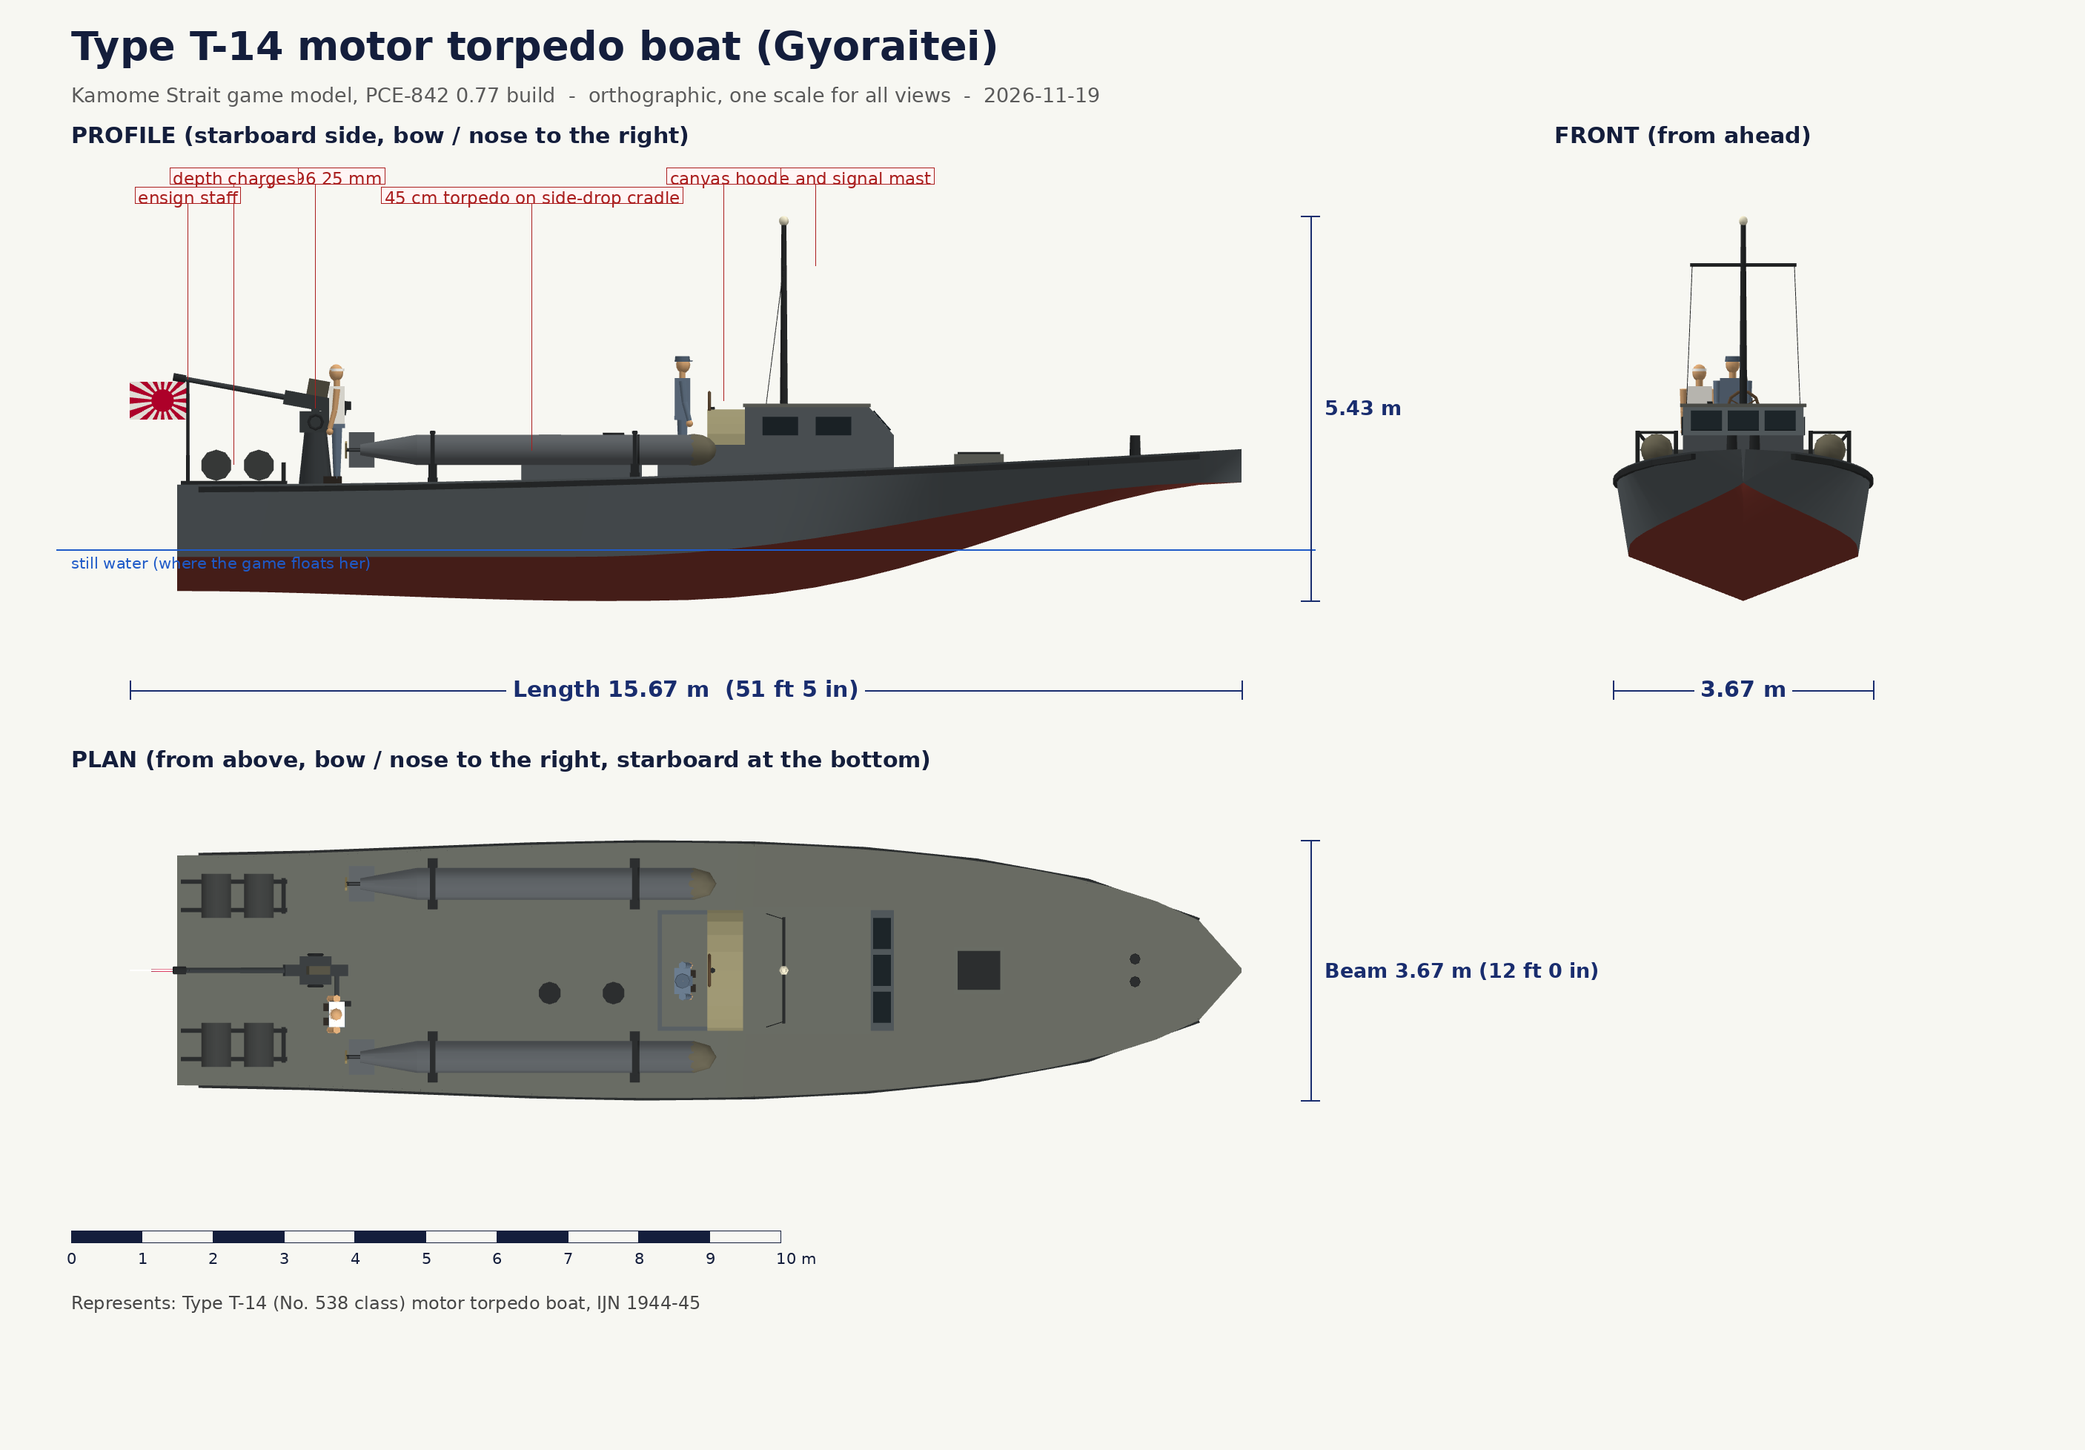
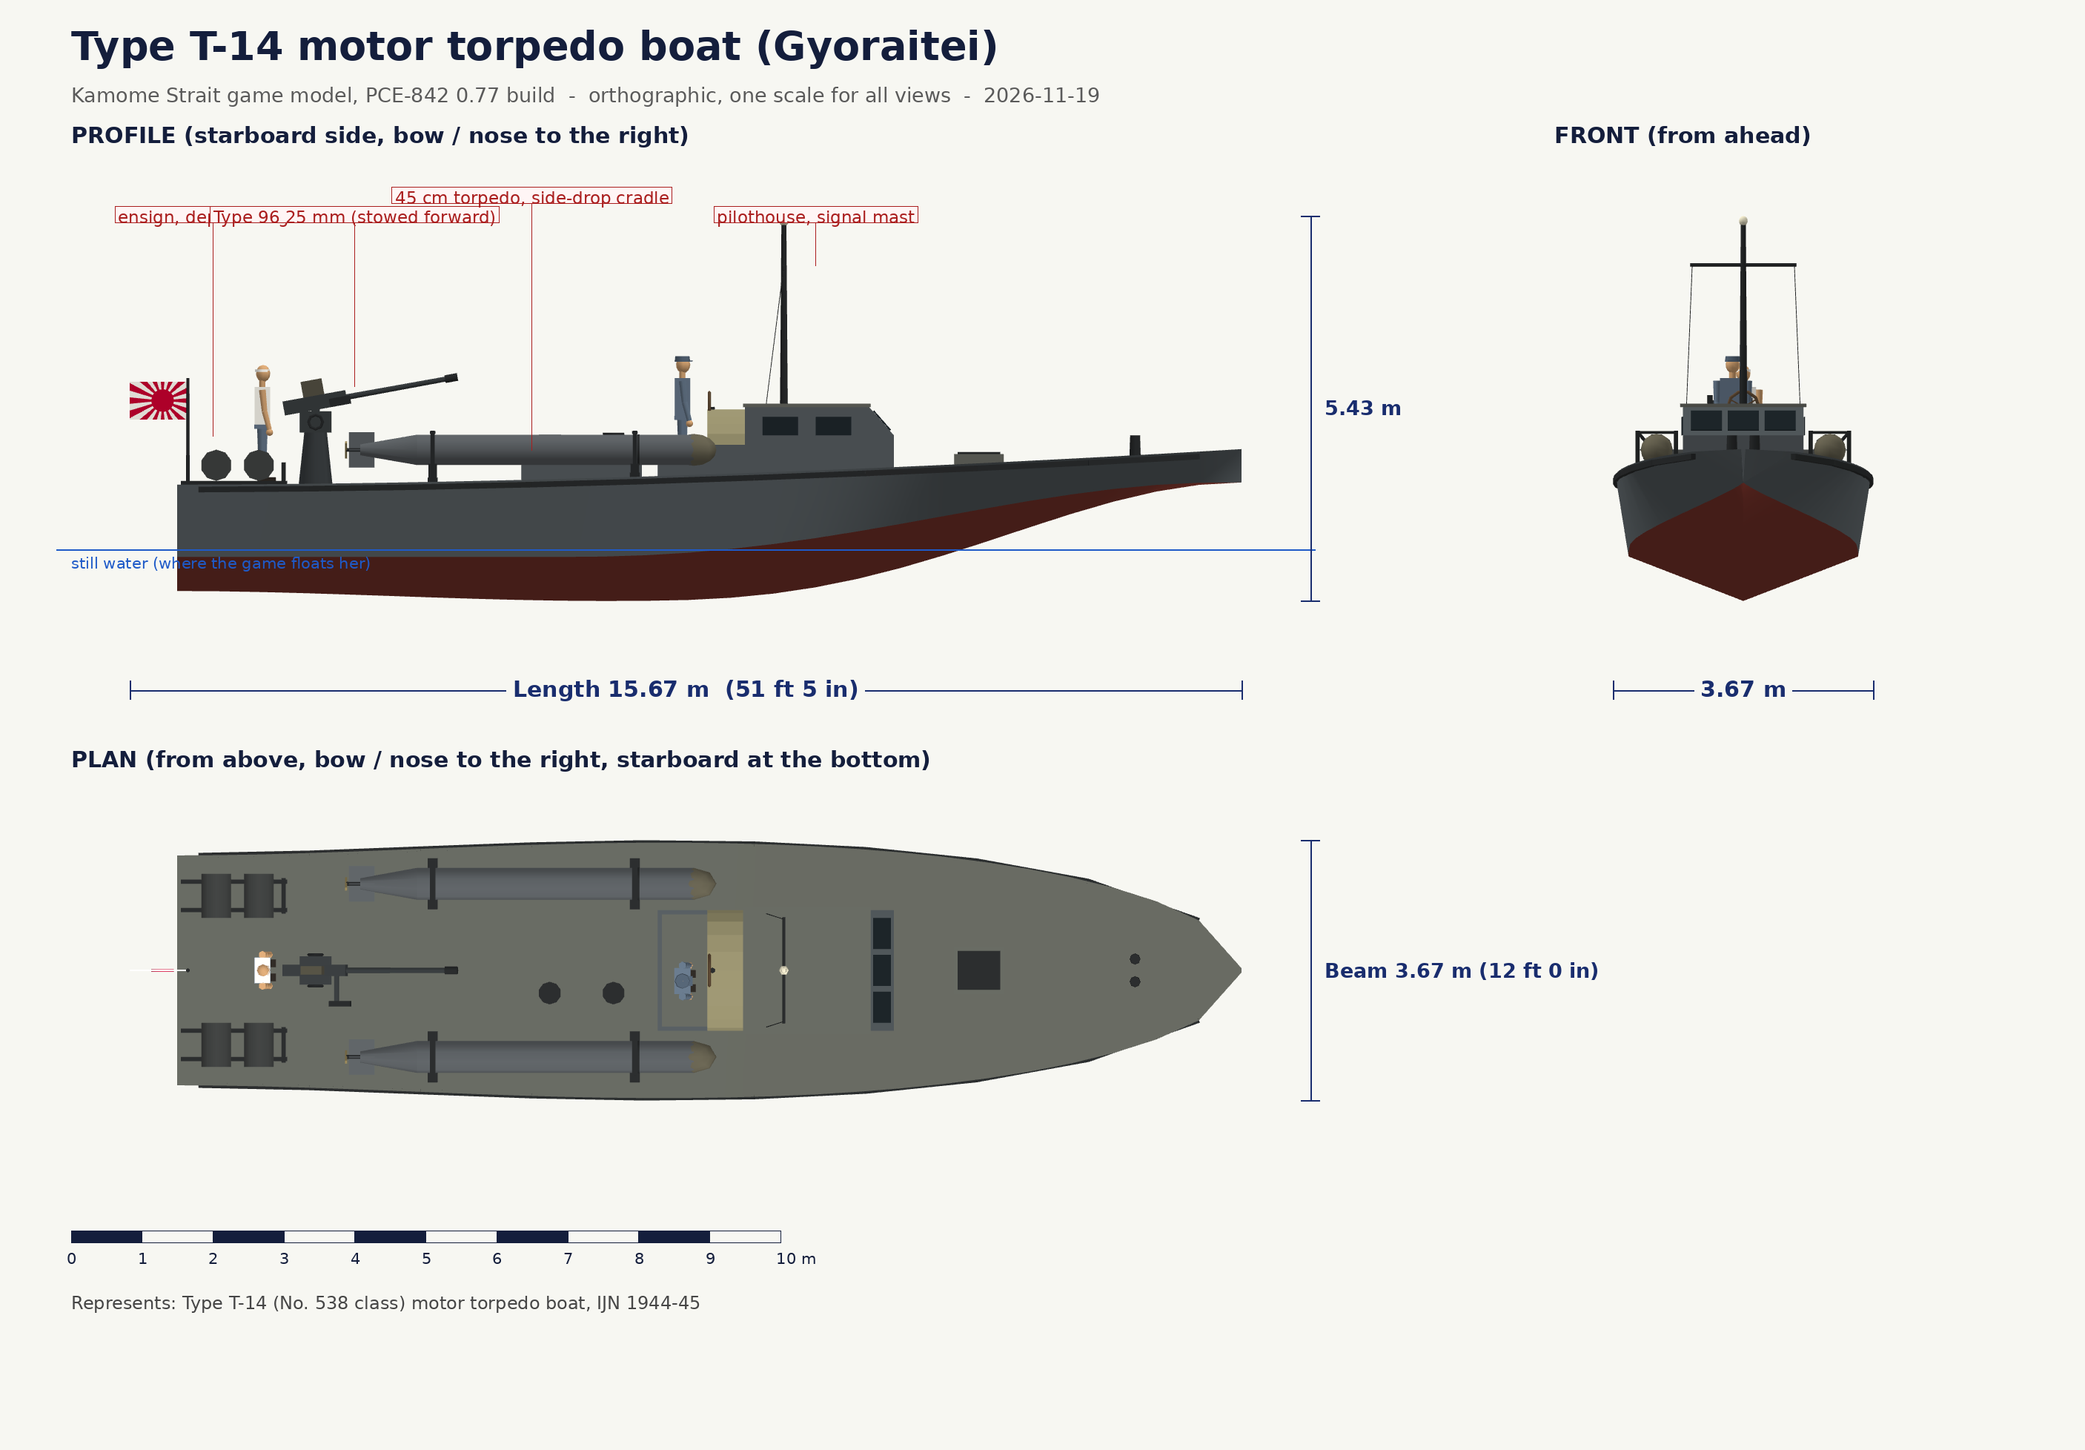
PCE-842 blueprint in the standard form (PCE-842_blueprint.png / _measurements.md); old profile/plan sheets removed; plans check moved to docs/PCE-842_plans_check.md
Claude-Session: https://claude.ai/code/session_01GqtnZ4hJG1DYCEV5dDsXBs

diff --git a/tools/blueprint_index.py b/tools/blueprint_index.py
@@ -21,8 +21,7 @@ L = ['# Blueprints of the Kamome Strait models', '',
      'Orthographic drawings of every real-world model in the game (profile, plan and front at one scale) and a measurement check against',
      'the references. Drawn by `tools/blueprint.py` from the built game; the catalogue of models, with the reference figures and their',
      'sources, is `tools/blueprints.json`. Redraw after a model changes: `python3 tools/blueprint.py <id>`, then `python3 tools/blueprint_index.py`.', '',
-     'The PCE-842 has her own, more detailed drawings and frame-by-frame check against the PCE-874 plans: `PCE-842_blueprint_profile.png`,',
-     '`PCE-842_blueprint_plan.png`, `PCE-842_measurements.md`.', '',
+     'The PCE-842\'s frame-by-frame check against the PCE-874 plans is in `docs/PCE-842_plans_check.md`.', '',
      '| Model | Represents | Length x width x height (m) | Check | Files |', '|---|---|---|---|---|']
 for e, dims, worst in rows:
     d = ' x '.join(dims) if dims else '-'

diff --git a/Blueprints/PCE-842_measurements.md b/Blueprints/PCE-842_measurements.md
@@ -1,56 +1,22 @@
-# PCE-842 game model checked against the PCE-874/875 Booklet of General Plans
+# USS PCE-842, patrol craft escort (the player's ship): game model measured against the references
 
-Version 0.37, 16 Nov 2026. The plans are BuShips PCE 874-S0103-426816, plates 3 to 8, for PCE-874/875. They are sister ships of PCE-842 and were drawn at 1/8 in = 1 ft.
+Measured from the PCE-842 0.77 build by `tools/blueprint.py` (2026-11-19). Model box: 56.64 m long, 12.12 m wide, 23.65 m high (solid parts only, as drawn on the blueprint).
 
-**How it was measured.** Each plate was scanned at 100 dpi and its own frame marks were used as the scale: 24 in frame spacing, with frame 0 at the stem on the waterline.
-- **Plate 4 (outboard profile):** 38.3 px a frame along the ship, and 66.5 px a metre in height (the 8 ft 4 in waterline to the baseline).
-- **Plate 5 (upper deck and navigating bridge):** 39 px a frame along the ship. Athwartships it is scaled to the 33 ft 1 in beam. The scans are stretched slightly across the ship, so each axis has its own scale.
-- **Accuracy:** about ±0.3 frame (±0.2 m) where a feature is drawn clearly.
-- **Coordinates:** frame f lies x = 27.75 - 0.6096 f metres from amidships. Starboard is +z.
+**Represents:** PCE-842 class patrol craft escort, USN 1943-45
 
-## Hull
+**Where she floats in the game:** the still water is 20.87 m below her highest point and 2.77 m above her keel (her draught in the game).
 
-| Item | Plans / published | Model before | Model now | Result |
-|---|---|---|---|---|
-| Length overall | 184 ft 6 in (56.24 m) published; plate 4 shows the stem head at frame -0.9 and the raked transom reaching frame ~91.2 at the deck | 55.67 m (square transom at frame 90.2) | **56.25 m** (stem -1.1, raked transom 90.0 to 91.16) | fixed |
-| Length on the 8 ft 4 in waterline | 179 ft 4.5 in (54.67 m), plate 4 | 53.83 m (counter rising from frame 86) | **54.86 m** (counter knuckle at frame 90) | fixed |
-| Beam (max, deck edge) | 33 ft 1 in (10.08 m) | 10.08 m | 10.08 m | match |
-| Beam on the waterline | about 32 ft (plate 7) | 9.84 m | 9.84 m | match |
-| Draft (design waterline above baseline) | 8 ft 4 in (2.54 m) | 2.54 m | 2.54 m | match |
-| Forecastle deck at the stem | about 5.6 m above DWL (plate 4) | 5.77 m | 5.77 m | match (0.1 m) |
-| Break of the forecastle | frame 62.7 (plate 4) | 62.8 | 62.8 | match |
+| Item | Reference | Source | Model | Difference | Result |
+|---|---|---|---|---|---|
+| Length | 56.24 m (184 ft 6 in) | 184 ft 6 in overall (published; PCE-874/875 plans, plate 4) | 56.64 m | +0.40 m (1%) | match |
+| Beam of the hull | 10.08 | 33 ft 1 in at the deck edge (the drawn width also takes in the life rafts and gun tubs, 12.1 m) | - | | |
+| Draught to the baseline | 2.54 | 8 ft 4 in design waterline above the baseline (plate 4); the model's 2.79 m below the still water is to the bottom of her propellers, which reach below the keel | - | | |
 
-## Structures and weapons (frame numbers)
+Results: match within 3%, close within 8%, **check** beyond that. The box takes in everything drawn: guns, aerials, flags, rigging and figures. Hull-only or body-only sizes can be smaller, so check a **check** result against the drawing before rebuilding anything.
 
-| Item | Plans | Model before | Model now | Result |
-|---|---|---|---|---|
-| 3"/50 gun No. 1 | frame 15.8 (plate 5), 16.3 (plate 4) | 17.5 | **16.0** | fixed (0.9 m) |
-| Hedgehog Mk 10 | frames 20.1 to 23.0, centre 21.6 (plate 5) | 22.2 | **21.6** | fixed |
-| Forward 20 mm tubs (bridge wings) | frame 24.0, 3.2 m off centre (navigating bridge plan); 23.8 (plate 4) | 21.8, 3.45 m | **24.0, 3.2 m** | fixed (1.3 m) |
-| Pilothouse (steering station) front | frame 25.0 (plates 4 and 5) | 23.8 | **25.0** | fixed (0.7 m) |
-| Upper deckhouse (blower rooms) | frames ~25 to 37.7-38.6 | 26.6 to 43.4 (ran into the 20 mm tub) | 26.6 to **38.0** | fixed in 0.36 |
-| Radar room / enclosure aft end | frame 34.9 (plate 4) | 35.8 | 35.8 | close (0.5 m) |
-| After 20 mm tubs (bridge wings) | frame 35.3 (navigating bridge plan) | 34.6 | **35.3** | fixed |
-| Mast | frame 39.9 (plate 5) | 39.8 | 39.8 | match |
-| Life nets P&S | frames 40.6 to 46.5 (plate 5) | 43 to 48 | **40.6 to 46.5** | fixed |
-| Starboard 20 mm (the player's) | frame 44.9 (plate 5), 45.0 (plate 4) | 44.7 | 44.7 | match |
-| Deck gear locker and ventilation hood | frames 44.8 to 54.7 (plate 5) | 44.7 to 54.5 | same | match |
-| Motor whaleboat (26 ft) | frames 44.5 to 57.4, 3.1 m to port (plate 5) | 46 to 57, 3.0 m | **44.5 to 57.4, 3.1 m** | fixed |
-| 40 mm directors P&S (amidships) | frame 56.2 (plate 5), 56.8 (plate 4) | 55.7 | **56.5** | fixed |
-| Twin 40 mm P&S (amidships) | frame 62.2, 2.8 m off centre, tub radius ~2.2 m (plate 5); 62.0 (plate 4) | 61.6 | **62.1** | fixed |
-| K-guns (depth-charge projectors) | frames 64.8 and 73.5 (plate 6) | 64.6 and 73.7 | same | match |
-| After 40 mm director (port) | frame 69.4 (plate 4), 69.7 (plate 6) | 66.4 | **69.5** | fixed (1.9 m) |
-| After twin 40 mm on its platform | frame 76.2 (plate 4), 76.7 (plate 6) | 74.8 | **76.3** | fixed (0.9 m) |
-| Depth-charge racks P&S | frames ~80 to 89.5 (plate 4) | 80.2 to 89.6 | same | match |
+## Notes
 
-## Heights above the design waterline (model)
+- The player's ship in the PCE-842 game (SHIPM), built by the PCE game's own hull code; drawn as she floats (still water marked).
+- Her hull, structures and weapons were checked frame by frame against the PCE-874/875 Booklet of General Plans: see docs/PCE-842_plans_check.md (length, waterline length, beam, draught and every major item's frame match within about 0.5 m).
 
-Forecastle deck at the stem 5.77 m, at the break 4.35 m. Main deck aft about 2.8 m. Navigating bridge deck 7.03 m. Open bridge 9.6 m. Masthead 21.1 m.
-
-## Still open
-
-- The radar room's after end is 0.5 m aft of the plate 4 outline.
-- The after 20 mm tubs' distance off centre (4.35 m) is not clear on the navigating bridge plan.
-- These are PCE-874's plans; PCE-842 herself may have differed in detail.
-
-Blueprints: `PCE-842_blueprint_profile.png` and `PCE-842_blueprint_plan.png` (orthographic drawings of the game model with frame scale and dimensions).
+Blueprint: `PCE-842_blueprint.png`.

diff --git a/docs/PCE-842_plans_check.md b/docs/PCE-842_plans_check.md
@@ -1,0 +1,56 @@
+# PCE-842 game model checked against the PCE-874/875 Booklet of General Plans
+
+Version 0.37, 16 Nov 2026. The plans are BuShips PCE 874-S0103-426816, plates 3 to 8, for PCE-874/875. They are sister ships of PCE-842 and were drawn at 1/8 in = 1 ft.
+
+**How it was measured.** Each plate was scanned at 100 dpi and its own frame marks were used as the scale: 24 in frame spacing, with frame 0 at the stem on the waterline.
+- **Plate 4 (outboard profile):** 38.3 px a frame along the ship, and 66.5 px a metre in height (the 8 ft 4 in waterline to the baseline).
+- **Plate 5 (upper deck and navigating bridge):** 39 px a frame along the ship. Athwartships it is scaled to the 33 ft 1 in beam. The scans are stretched slightly across the ship, so each axis has its own scale.
+- **Accuracy:** about ±0.3 frame (±0.2 m) where a feature is drawn clearly.
+- **Coordinates:** frame f lies x = 27.75 - 0.6096 f metres from amidships. Starboard is +z.
+
+## Hull
+
+| Item | Plans / published | Model before | Model now | Result |
+|---|---|---|---|---|
+| Length overall | 184 ft 6 in (56.24 m) published; plate 4 shows the stem head at frame -0.9 and the raked transom reaching frame ~91.2 at the deck | 55.67 m (square transom at frame 90.2) | **56.25 m** (stem -1.1, raked transom 90.0 to 91.16) | fixed |
+| Length on the 8 ft 4 in waterline | 179 ft 4.5 in (54.67 m), plate 4 | 53.83 m (counter rising from frame 86) | **54.86 m** (counter knuckle at frame 90) | fixed |
+| Beam (max, deck edge) | 33 ft 1 in (10.08 m) | 10.08 m | 10.08 m | match |
+| Beam on the waterline | about 32 ft (plate 7) | 9.84 m | 9.84 m | match |
+| Draft (design waterline above baseline) | 8 ft 4 in (2.54 m) | 2.54 m | 2.54 m | match |
+| Forecastle deck at the stem | about 5.6 m above DWL (plate 4) | 5.77 m | 5.77 m | match (0.1 m) |
+| Break of the forecastle | frame 62.7 (plate 4) | 62.8 | 62.8 | match |
+
+## Structures and weapons (frame numbers)
+
+| Item | Plans | Model before | Model now | Result |
+|---|---|---|---|---|
+| 3"/50 gun No. 1 | frame 15.8 (plate 5), 16.3 (plate 4) | 17.5 | **16.0** | fixed (0.9 m) |
+| Hedgehog Mk 10 | frames 20.1 to 23.0, centre 21.6 (plate 5) | 22.2 | **21.6** | fixed |
+| Forward 20 mm tubs (bridge wings) | frame 24.0, 3.2 m off centre (navigating bridge plan); 23.8 (plate 4) | 21.8, 3.45 m | **24.0, 3.2 m** | fixed (1.3 m) |
+| Pilothouse (steering station) front | frame 25.0 (plates 4 and 5) | 23.8 | **25.0** | fixed (0.7 m) |
+| Upper deckhouse (blower rooms) | frames ~25 to 37.7-38.6 | 26.6 to 43.4 (ran into the 20 mm tub) | 26.6 to **38.0** | fixed in 0.36 |
+| Radar room / enclosure aft end | frame 34.9 (plate 4) | 35.8 | 35.8 | close (0.5 m) |
+| After 20 mm tubs (bridge wings) | frame 35.3 (navigating bridge plan) | 34.6 | **35.3** | fixed |
+| Mast | frame 39.9 (plate 5) | 39.8 | 39.8 | match |
+| Life nets P&S | frames 40.6 to 46.5 (plate 5) | 43 to 48 | **40.6 to 46.5** | fixed |
+| Starboard 20 mm (the player's) | frame 44.9 (plate 5), 45.0 (plate 4) | 44.7 | 44.7 | match |
+| Deck gear locker and ventilation hood | frames 44.8 to 54.7 (plate 5) | 44.7 to 54.5 | same | match |
+| Motor whaleboat (26 ft) | frames 44.5 to 57.4, 3.1 m to port (plate 5) | 46 to 57, 3.0 m | **44.5 to 57.4, 3.1 m** | fixed |
+| 40 mm directors P&S (amidships) | frame 56.2 (plate 5), 56.8 (plate 4) | 55.7 | **56.5** | fixed |
+| Twin 40 mm P&S (amidships) | frame 62.2, 2.8 m off centre, tub radius ~2.2 m (plate 5); 62.0 (plate 4) | 61.6 | **62.1** | fixed |
+| K-guns (depth-charge projectors) | frames 64.8 and 73.5 (plate 6) | 64.6 and 73.7 | same | match |
+| After 40 mm director (port) | frame 69.4 (plate 4), 69.7 (plate 6) | 66.4 | **69.5** | fixed (1.9 m) |
+| After twin 40 mm on its platform | frame 76.2 (plate 4), 76.7 (plate 6) | 74.8 | **76.3** | fixed (0.9 m) |
+| Depth-charge racks P&S | frames ~80 to 89.5 (plate 4) | 80.2 to 89.6 | same | match |
+
+## Heights above the design waterline (model)
+
+Forecastle deck at the stem 5.77 m, at the break 4.35 m. Main deck aft about 2.8 m. Navigating bridge deck 7.03 m. Open bridge 9.6 m. Masthead 21.1 m.
+
+## Still open
+
+- The radar room's after end is 0.5 m aft of the plate 4 outline.
+- The after 20 mm tubs' distance off centre (4.35 m) is not clear on the navigating bridge plan.
+- These are PCE-874's plans; PCE-842 herself may have differed in detail.
+
+The game model's blueprint, drawn like every other model's: `Blueprints/PCE-842_blueprint.png`, with `Blueprints/PCE-842_measurements.md`.

diff --git a/Blueprints/README.md b/Blueprints/README.md
@@ -4,8 +4,7 @@ Orthographic drawings of every real-world model in the game (profile, plan and f
 the references. Drawn by `tools/blueprint.py` from the built game; the catalogue of models, with the reference figures and their
 sources, is `tools/blueprints.json`. Redraw after a model changes: `python3 tools/blueprint.py <id>`, then `python3 tools/blueprint_index.py`.
 
-The PCE-842 has her own, more detailed drawings and frame-by-frame check against the PCE-874 plans: `PCE-842_blueprint_profile.png`,
-`PCE-842_blueprint_plan.png`, `PCE-842_measurements.md`.
+The PCE-842's frame-by-frame check against the PCE-874 plans is in `docs/PCE-842_plans_check.md`.
 
 | Model | Represents | Length x width x height (m) | Check | Files |
 |---|---|---|---|---|
@@ -66,7 +65,7 @@ The PCE-842 has her own, more detailed drawings and frame-by-frame check against
 | Village hen | hen (plantation) | 0.60 x 0.32 x 0.60 | no reference yet | `Village_hen_blueprint.png`, `Village_hen_measurements.md` |
 | Plantation handcart | two-wheeled wooden handcart | 4.00 x 1.52 x 1.65 | no reference yet | `Village_handcart_blueprint.png`, `Village_handcart_measurements.md` |
 | USAAF ground crewman, jointed walker (CREW_RIG) | USAAF mechanic, 1945, as he walks (the airfield's walkers and the repair mechanic) | 0.92 x 0.55 x 1.70 | close | `Ground_crewman_walking_blueprint.png`, `Ground_crewman_walking_measurements.md` |
-| Type T-14 motor torpedo boat as she patrols (moving 25 mm, droppable torpedoes) | Type T-14 (No. 538 class) motor torpedo boat, IJN 1944-45: the patrol model (MODELS 'jp-t14' with live = true) | 15.67 x 3.67 x 5.43 | match | `Japanese_T-14_torpedo_boat_live_blueprint.png`, `Japanese_T-14_torpedo_boat_live_measurements.md` |
-| USS PCE-842, patrol craft escort (the player's ship) | PCE-842 class patrol craft escort, USN 1943-45 | 56.64 x 12.12 x 23.65 | **check** | `PCE-842_patrol_craft_escort_blueprint.png`, `PCE-842_patrol_craft_escort_measurements.md` |
+| Type T-14 motor torpedo boat in action (25 mm trained and elevated, one torpedo dropped) | Type T-14 (No. 538 class) motor torpedo boat, IJN 1944-45: the patrol model (MODELS 'jp-t14' with live = true) | 15.67 x 3.67 x 5.43 | match | `Japanese_T-14_torpedo_boat_live_blueprint.png`, `Japanese_T-14_torpedo_boat_live_measurements.md` |
+| USS PCE-842, patrol craft escort (the player's ship) | PCE-842 class patrol craft escort, USN 1943-45 | 56.64 x 12.12 x 23.65 | match | `PCE-842_blueprint.png`, `PCE-842_measurements.md` |
 
 Check: the worst result in that model's table (match within 3%, close within 8%, **check** beyond).

diff --git a/Blueprints/Japanese_T-14_torpedo_boat_measurements.md b/Blueprints/Japanese_T-14_torpedo_boat_measurements.md
@@ -22,5 +22,6 @@ Results: match within 3%, close within 8%, **check** beyond that. The box takes 
 - Wooden hard-chine planing hull with V frames, lofted from 26 stations: dark grey (variant 0) or mottled green (variant 1), red anti-fouling below the chine, a rubbing strake along the sheer.
 - Pilothouse forward of amidships with a raked three-pane windscreen; the open cockpit abaft it under a canvas hood, with the wheel; a signal mast with yard and masthead lamp on the pilothouse roof.
 - Two 45 cm Type 91 torpedoes on side-drop cradles along the deck edges, a Type 96 25 mm single on the after deck, four Type 95 depth charges on stern rails, the ensign at the transom. Crew shown: helmsman and gunner.
+- 5.60: the 25 mm is stowed trained forward along the centreline (trained aft its barrel crossed the ensign staff); the gunner stands behind the breech between the depth-charge rails. The gun is built from the same turret and barrel parts the patrol model turns (T14.gunParts).
 
 Blueprint: `Japanese_T-14_torpedo_boat_blueprint.png`.
